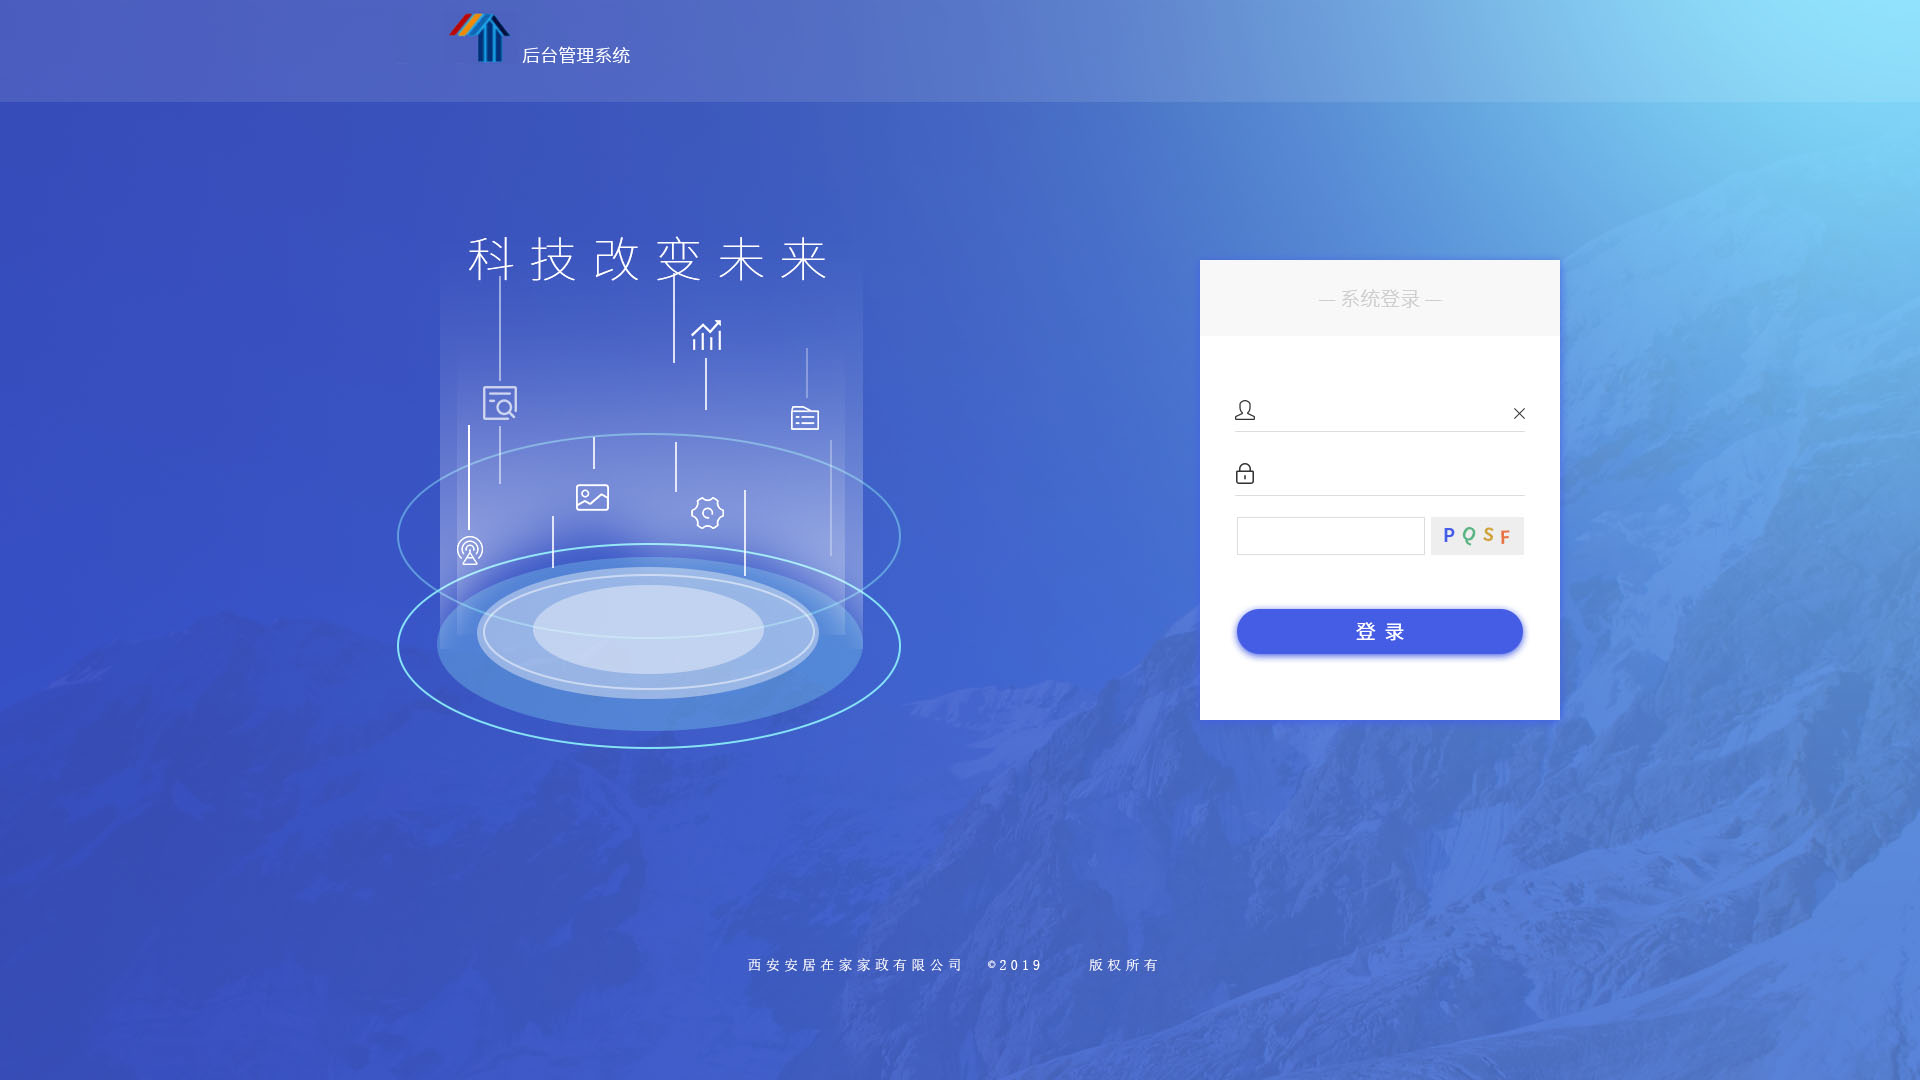
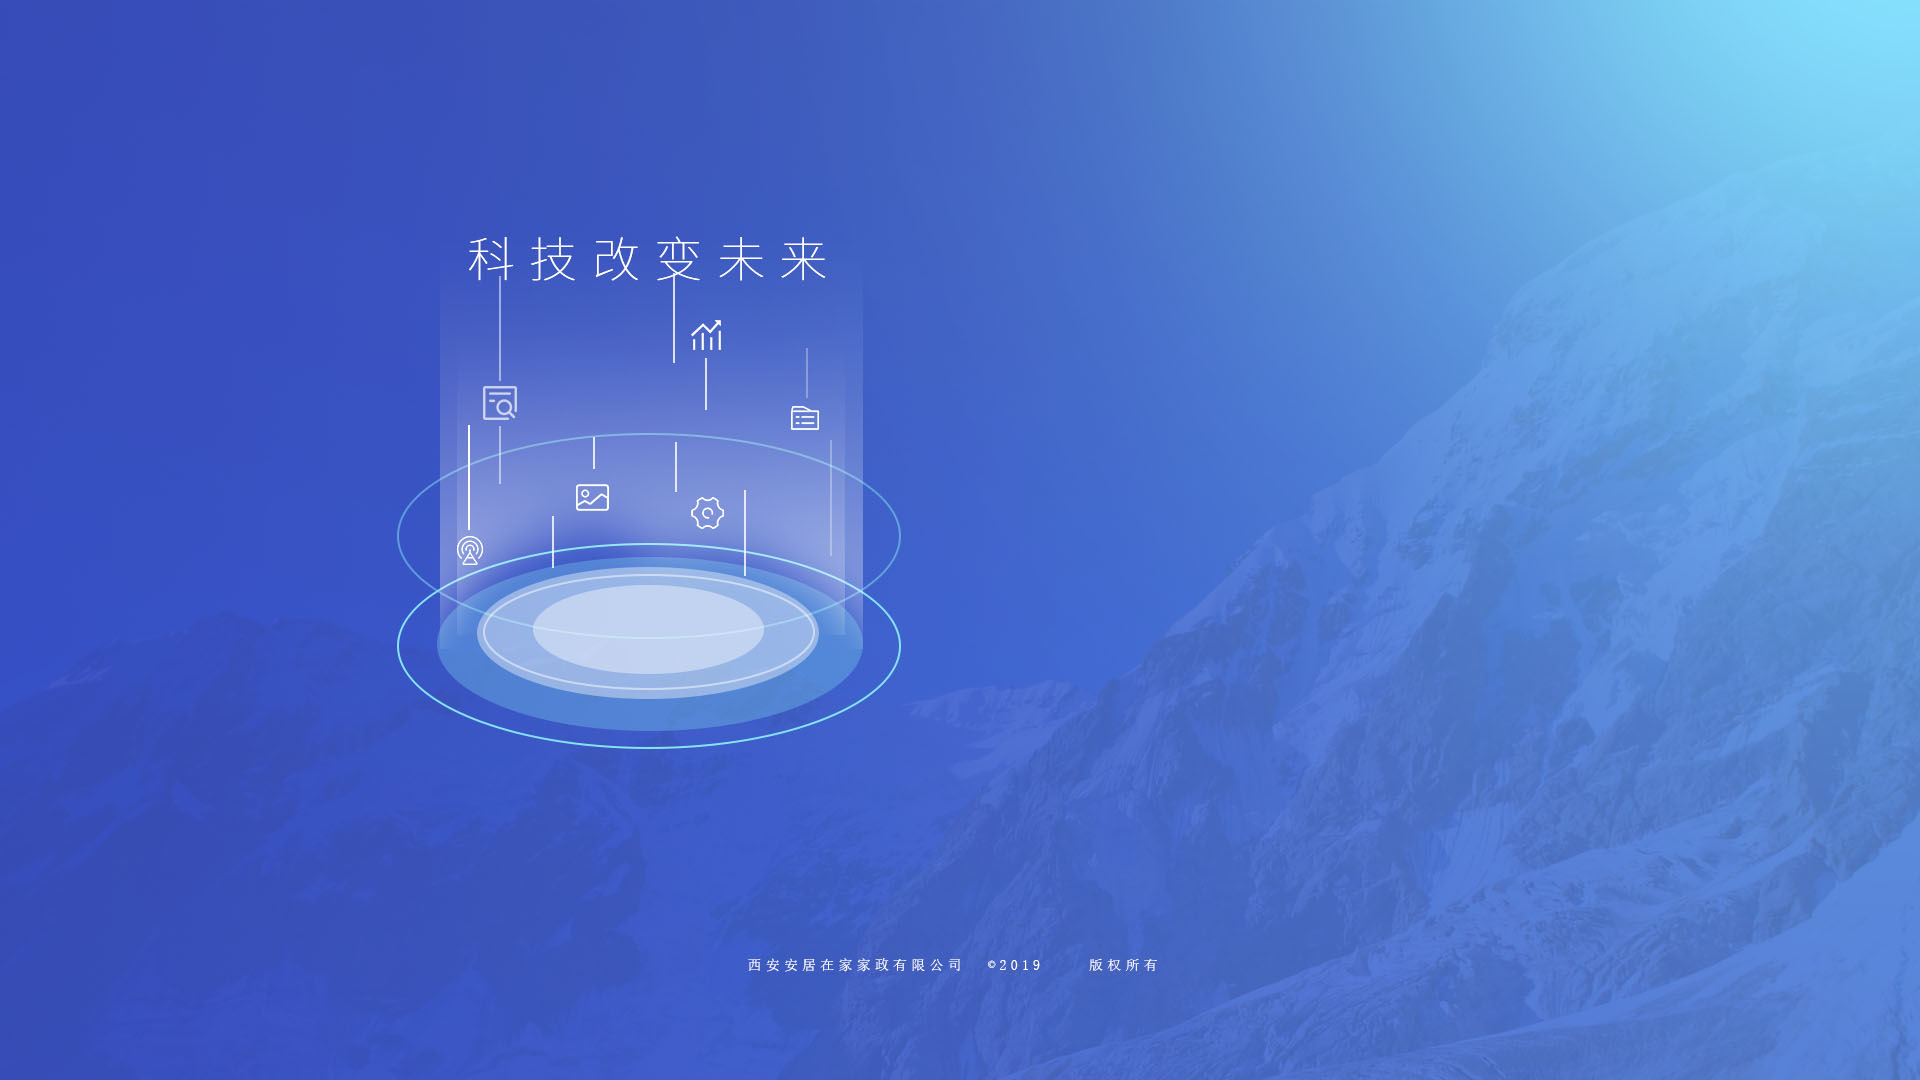
1:添加登陆逻辑

Changed region(s): [[0.625, 0.2139, 0.8125, 0.6722], [0.2188, 0.0, 0.3438, 0.0611]]

diff --git a/src/pages/login/index.js b/src/pages/login/index.js
@@ -1,19 +1,102 @@
 import React from 'react';
-import login from '../../assets/login.jpg'
-export default class Login extends React.Component{
+import styles from './index.css';
+import { Input, Row, Col , message} from 'antd'
+import {connect} from 'dva'
+const namespace = "login";
+@connect(state=> {
+    return({})
+}, dispatch => {
+    return{
+        login: (loginData) => {
+            dispatch({
+                type:namespace + "/login",
+                payLoad:{
+                    loginData:loginData,
+                }
+            })
+        }
+    }
+})
+export default class Login extends React.Component {
+    constructor(props) {
+        super(props);
+        this.state = {
+            loginData: {
+                username: null,
+                password: null,
+                checkcode: null,
+            }
+        }
+    }
 
-
+    change = (attr, event) => {
+        let loginData = this.state.loginData;
+        loginData[attr] = event.target.value;
+        this.setState({
+            loginData: loginData,
+        })
+    }
+    login = (event) => {
+        let loginData = this.state.loginData
+        if(!loginData.username){
+            message.error("用户名必填")
+            return;
+        }else if(!loginData.password){
+            message.error("密码必填")
+            return;
+        }else if(!loginData.checkcode){
+            message.error("验证码必填")
+            return;
+        }
+        // 发起登陆        
+        this.props.login(loginData);
+    }
 
     render = () => {
-        return(
-            <div>
-            <img src={login} style={
-                {
-                    width:"100%",
-                    height:"100vh"
-                }
-            }></img>
-        </div>
+        return (
+            <div className={styles.login}>
+                {/* 登录框 */}
+                <div className={styles.box}>
+                    <div className={styles.head}>
+                        <h3>——系统登陆——</h3>
+                    </div>
+                    <div className={styles.body}>
+                        <Row gutter={[16, 16]}>
+                            <Col style={
+                                {
+                                    lineHeight: "32px"
+                                }
+                            } span={7}>账号：</Col>
+                            <Col span={17}><Input value={this.state.loginData.username} onChange={this.change.bind(this, "username")}></Input></Col>
+                        </Row>
+                        <Row gutter={[16, 16]}>
+                            <Col style={
+                                {
+                                    lineHeight: "32px"
+                                }
+                            } span={7}>密码：</Col>
+                            <Col span={17}><Input value={this.state.loginData.password} type="password" onChange={this.change.bind(this, "password")}></Input></Col>
+                        </Row>
+                        <Row gutter={[16, 16]}>
+                            <Col style={
+                                {
+                                    lineHeight: "32px"
+                                }
+                            } span={7}>验证码：</Col>
+                            <Col span={17} style={
+                                {
+                                    width: "120px"
+                                }
+                            }><Input value={this.state.loginData.checkcode} onChange={this.change.bind(this, "checkcode")}></Input></Col>
+                        </Row>
+                    </div>
+                    <div className={styles.tail}>
+                        <button onClick={this.login}>
+                            登录
+                        </button>
+                    </div>
+                </div>
+            </div>
         )
     }
 }

diff --git a/src/pages/goods/index.js b/src/pages/goods/index.js
@@ -188,37 +188,61 @@ export default class Goods extends React.Component {
         let content = (
             <div>
                 < Row gutter={[16, 16]} >
-                    <Col span={8}>套餐名称</Col>
+                    <Col style={
+                        {
+                            lineHeight:"32px",
+                        }
+                    } span={8}>套餐名称</Col>
                     <Col span={16} >
                         <Input type="text" value={goods.goodsName} onChange={this.handleChange.bind(this, "goodsName")} />
                     </Col>
                 </Row >
                 < Row gutter={[16, 16]} >
-                    <Col span={8}>次数</Col>
+                    <Col style={
+                        {
+                            lineHeight:"32px",
+                        }
+                    }  span={8}>次数</Col>
                     <Col span={16} >
                         <Input type="text" value={goods.goodsFreq} onChange={this.handleChange.bind(this, "goodsFreq")} />
                     </Col>
                 </Row >
                 < Row gutter={[16, 16]} >
-                    <Col span={8}>有效期</Col>
+                    <Col style={
+                        {
+                            lineHeight:"32px",
+                        }
+                    }  span={8}>有效期</Col>
                     <Col span={16} >
                         <Input type="text" value={goods.goodsExpreDate} onChange={this.handleChange.bind(this, "goodsExpreDate")} />
                     </Col>
                 </Row >
                 < Row gutter={[16, 16]} >
-                    <Col span={8}>使用范围</Col>
+                    <Col style={
+                        {
+                            lineHeight:"32px",
+                        }
+                    }  span={8}>使用范围</Col>
                     <Col span={16} >
                         <Input type="text" value={goods.goodsAdvise} onChange={this.handleChange.bind(this, "goodsAdvise")} />
                     </Col>
                 </Row >
                 < Row gutter={[16, 16]} >
-                    <Col span={8}>套餐价格</Col>
+                    <Col style={
+                        {
+                            lineHeight:"32px",
+                        }
+                    }  span={8}>套餐价格</Col>
                     <Col span={16} >
                         <Input type="text" value={goods.goodsPrice} onChange={this.handleChange.bind(this, "goodsPrice")} />
                     </Col>
                 </Row >
                 < Row gutter={[16, 16]} >
-                    <Col span={8}>折后价</Col>
+                    <Col style={
+                        {
+                            lineHeight:"32px",
+                        }
+                    }  span={8}>折后价</Col>
                     <Col span={16} >
                         <Input type="text" value={goods.goodsDiscountPrice} onChange={this.handleChange.bind(this, "goodsDiscountPrice")} />
                     </Col>

diff --git a/src/pages/login/index.css b/src/pages/login/index.css
@@ -1,0 +1,44 @@
+.login{
+    position: relative;
+    height: 100vh;
+    width: 100%;
+    background-image: url("../../assets/login.jpg");
+    background-size: 100% 100%; 
+    background-position: center center;
+    background-repeat: no-repeat;
+}
+
+.login .box{
+    background-color: #fff;
+    position: absolute;
+    top: 20%;
+    left: 60%;
+    height: 350px;
+    width: 360px;
+}
+.login .head{
+    height: 70px;
+}
+.login .body{
+    height: 200px;
+    padding-left: 40px;
+    padding-right: 50px;
+}
+.login .tail{
+    height: 80px;
+    text-align: center;
+}
+.login .box h3{
+    text-align: center;
+    color: #888888;
+    height: 100%;
+    line-height: 70px;
+}
+.login .tail > button{
+    color: #fff;
+    width: 200px;
+    height: 40px;
+    background-color: rgb(69, 93, 228);
+    border-radius: 20px;
+    outline: none;
+}

diff --git a/src/models/loginModel.js b/src/models/loginModel.js
@@ -1,0 +1,24 @@
+import loginService from '../service/loginService'
+import { message } from 'antd';
+
+export default {
+    namespace:"login",
+    state:{
+        login:{}
+    },
+    effects:{
+        *login({ payLoad }, { call, put }){  
+            console.log(payLoad.loginData);
+            const ret = yield call(loginService.login, payLoad.loginData)
+            console.log(ret);
+            if(ret.code != 200){
+                message.error("账号或密码不正确")
+            }else{
+                message.success("登陆成功了")
+            }
+        }
+    },
+    reducers:{
+
+    }
+}

diff --git a/src/layouts/index.js b/src/layouts/index.js
@@ -6,9 +6,9 @@ export default class BaseLayout extends React.Component {
 
     render = () => {
         // 判断是否登陆，切换页面
-        let content = window.localStorage.getItem("Authorization") ?
+        let content = false ?
             <Logged>
-                {container}
+                {this.props.children}
             </Logged> :
             <Login></Login>;
         return (

diff --git a/src/pages/.umi/dva.js b/src/pages/.umi/dva.js
@@ -21,6 +21,7 @@ export function _onCreate() {
   });
   
   app.model({ namespace: 'goodsModel', ...(require('D:/jsStudy/reactL03/housekeeping/src/models/goodsModel.js').default) });
+app.model({ namespace: 'loginModel', ...(require('D:/jsStudy/reactL03/housekeeping/src/models/loginModel.js').default) });
   return app;
 }
 

diff --git a/src/service/loginService.js b/src/service/loginService.js
@@ -1,0 +1,9 @@
+import httpUtils from '../utils/httputils'
+
+class LoginService{
+    login =(data) => {      
+        return httpUtils.post("/login", data);
+    }
+}
+const loginService = new LoginService();
+export default loginService;

diff --git a/config/config.js b/config/config.js
@@ -10,6 +10,10 @@ export default {
     '/goods': {
       target: 'http://localhost:8080',
       changeOrigin: true
+    },
+    '/login': {
+      target: 'http://localhost:8080',
+      changeOrigin: true
     }
   }
 };
